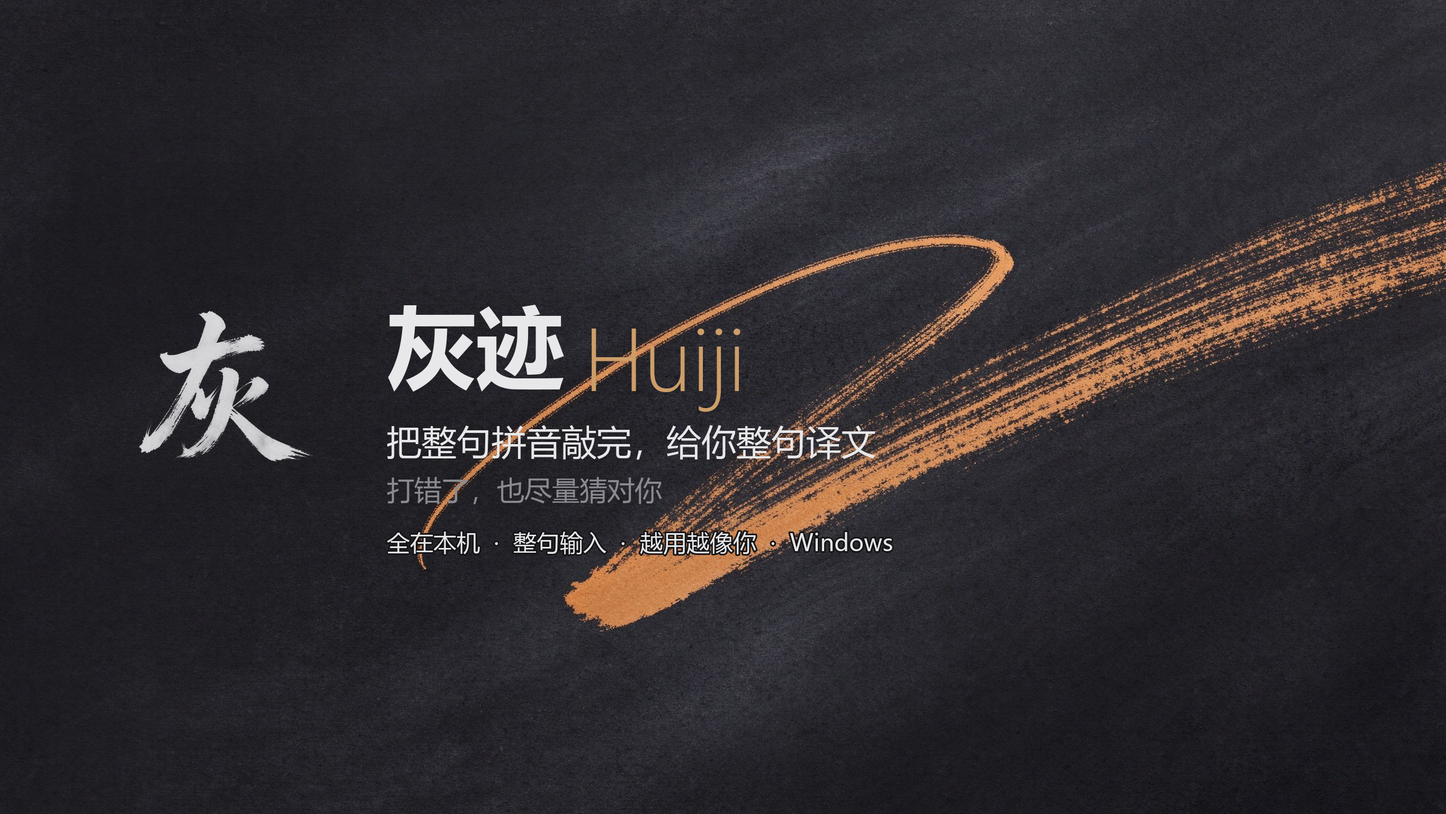
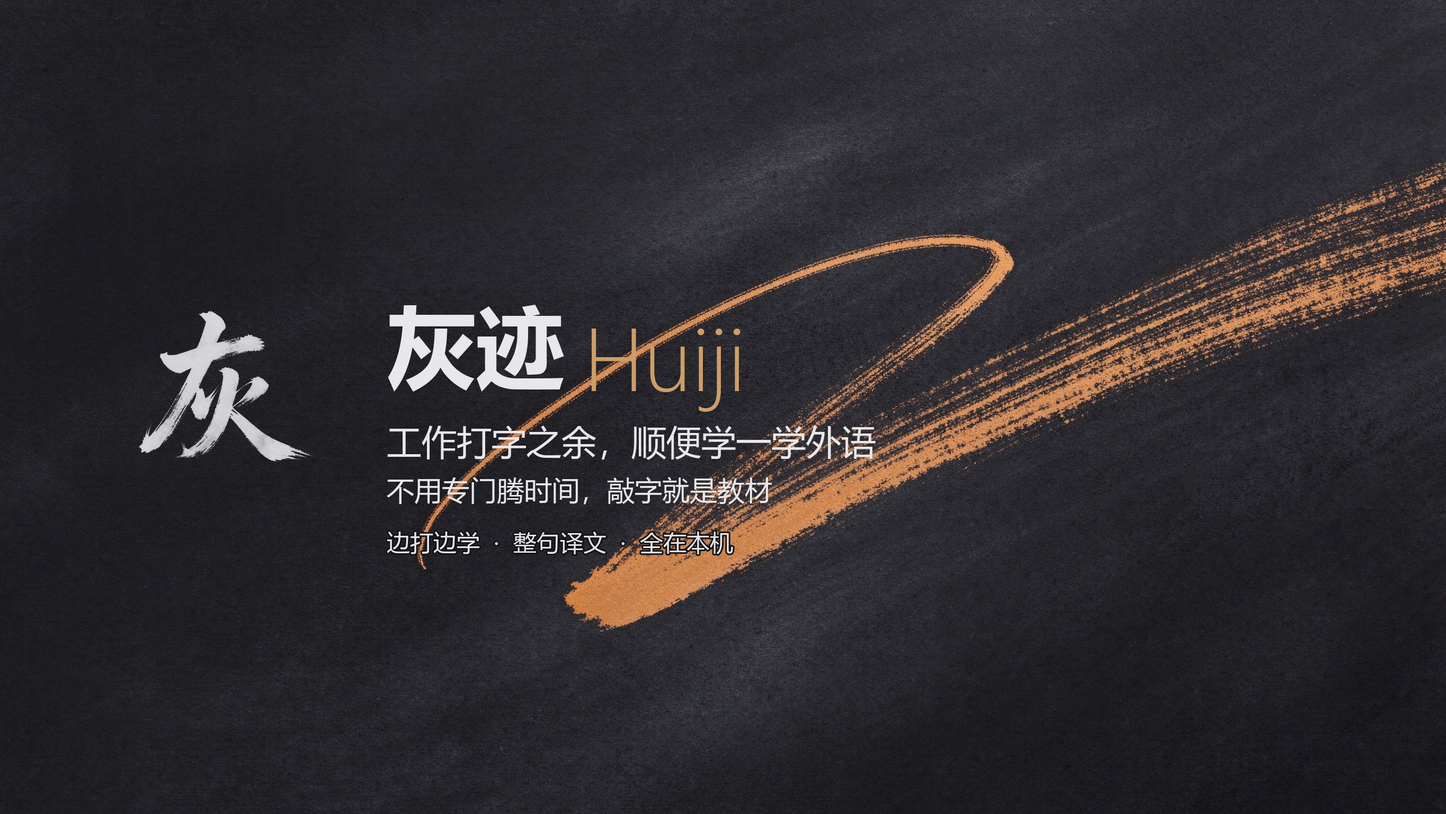
docs(readme): 主线回到工作打字顺便学外语

Changed region(s): [[0.2491, 0.5, 0.6227, 0.625], [0.3736, 0.6562, 0.6227, 0.6875], [0.2491, 0.6562, 0.3425, 0.6875]]

diff --git a/huiji/tools/make_banner.py b/huiji/tools/make_banner.py
@@ -61,11 +61,11 @@ draw.text((tx + w_cn + gap, title_y + 18), "Huiji", font=f_en, fill=AMBER)
 
 # slogan
 slogan_y = title_y + 250
-draw.text((tx, slogan_y), "把整句拼音敲完，给你整句译文", font=f_slogan, fill=LIGHT)
-draw.text((tx, slogan_y + 100), "打错了，也尽量猜对你", font=f_sub, fill=MUTED)
+draw.text((tx, slogan_y), "工作打字之余，顺便学一学外语", font=f_slogan, fill=LIGHT)
+draw.text((tx, slogan_y + 100), "不用专门腾时间，敲字就是教材", font=f_sub, fill=LIGHT)
 
 # 标签（浅色 + 深色描边，避免压在琥珀笔触上看不清）
-tags = "全在本机  ·  整句输入  ·  越用越像你  ·  Windows"
+tags = "边打边学  ·  整句译文  ·  全在本机"
 draw.text(
     (tx, slogan_y + 205),
     tags,

diff --git a/README.md b/README.md
@@ -8,79 +8,62 @@
   <a href="https://github.com/noii-y/huiji/stargazers"><img src="https://img.shields.io/github/stars/noii-y/huiji?label=Stars" alt="GitHub Stars"></a>
 </p>
 
-灰迹是一款 Windows 拼音输入法，从开源输入法 [青简](https://github.com/qingjian-team/qingjian) 长出来。
+灰迹是一款 Windows 拼音输入法，做给「想在工作里顺便学点外语、又挤不出整块时间」的人。
 
-它首先得是一款能天天用的输入法，这件事青简已经做好了。灰迹在这个底子上往前走两步：你照平常把一整句拼音连续敲完、不用停下来逐个选词，候选窗顶部就给出整句英文；手滑敲错、或者只打声母缩写，也尽量把你真正想要的词排到前面。
+你每天要写邮件、改文档、回消息，在键盘上敲下成千上万次。灰迹把外文放进这个过程里：候选词旁边跟着这个词的外文和词性，一整句敲完，还能看到整句话怎么讲。不用另开学习软件，也不用专门腾出时间，打字时眼睛顺带扫过去，日子久了，词就记住了。
+
+它从开源输入法 [青简](https://github.com/qingjian-team/qingjian) 长出来。青简「打字时顺便认识一个词」的想法和最难的地基，灰迹都接了过来，又把学习从「词」扩到「句」。
 
 ## 为什么叫灰迹
 
-输入法本该在后台。你打字的时候几乎忘了它在，但它一直在——这是「灰」，克制，不抢戏。
+输入法本该待在后台，你打字时几乎察觉不到它——这是「灰」，克制，不抢戏。
 
-你选过哪些词、敲错又改对过什么、嘴上常挂哪句话，这些都会留下痕迹，输入法据此一点点变成「你的」输入法——这是「迹」。
+哪些词从陌生看到熟、你嘴上常挂什么话、改过哪些手误，这些都会留下痕迹，外语和输入法一起，慢慢变成「你的」——这是「迹」。
 
-样子也照着这个脾气做。默认是一套深色的「石墨深邃」皮肤：深灰底、圆角、首选词左边一道暖琥珀色的竖条，在一片灰里给一点提示，不花哨。图标是一个透明底的「灰」字。默认深色，不跟随系统。
+样子也照着这个脾气。默认是一套深色的「石墨深邃」皮肤：深灰底、圆角、首选词左边一道暖琥珀竖条，在一片灰里给一点提示。图标是透明底的「灰」字，默认深色，不跟随系统。
 
-## 站在青简的肩膀上
-
-青简是一个用 Rust 写的拼音输入法，整句输入，候选由本机小模型重排，本地优先。它最难的地基，灰迹原样继承了下来：
-
-- **整句输入**：连续敲拼音，候选由本机小模型重排，不用一个字一个字凑；
-- **多种打法**：全拼、简拼（声母缩写）、双拼、模糊音都支持；
-- **拼写纠错、英文模式、emoji**；
-- **候选词旁的译词**（青简的招牌）：每个候选词旁边标一条你正在学的语言的译词，带词性，英语或日语一次一种，日语按汉字注假名；没见过几次的生词标橙色，看熟了自动变回灰色；
-- **越用越像自己**：选过的词、连着选的词序列（个人 n-gram）、接受过的敲错纠正，都在本机记着，排序据此调整；
-- **全在本机**：拼音、词库、整句模型、学习、释义都不联网，不需要账号；
-- **可选的云联想，默认关闭**：打开后向你自己填的 AI 服务商要词和整句补全。
-
-青简也有 macOS、Linux 的外壳。灰迹目前只在 Windows 上打磨，那两个平台的代码还在，但没专门调过。
-
-## 灰迹多做了什么
+## 边打字，边学外语
 
 <p align="center">
   <img src="huiji/assets/huiji-candidates.png" alt="灰迹候选窗" width="380">
 </p>
 
-**整句翻译：从「词」到「句」，全程离线**
+- **词旁边就是外文。** 选词时眼睛顺带扫一眼：这个词英文怎么拼、是动词还是名词。一天敲几千字，就多看几千眼，比正襟危坐背单词轻松，也更容易坚持。这套「词旁译词」是青简的招牌，灰迹原样保留。
+- **生词会提醒，熟了就退场。** 没见过几次的词标成橙色，提醒你多留意；看多了、记住了，自动变回普通灰色，不会一直分你的神。
+- **整句敲完，看整句怎么说。** 这是灰迹加上去的：想知道一整句话英文怎么讲，不必逐词凑，连续敲完拼音，候选窗顶部直接给整句，比如敲 `nijintianwanshangyoukongma` 给出 `Are you free tonight?`（见上图）。模型在本机、离线，约 81 MB，随安装包装好，100 句测试里译文延迟中位数 50 毫秒。流行语也单独照顾，「摸鱼」是 slack off、「内卷」是 rat race，比直译像话。
+- **英语、日语都能选**，一次学一种，日语按汉字标假名。
 
-青简把译词标在单个词旁边，只到「词」这一层。灰迹让你把整句拼音敲完，候选窗顶部直接出现整句英文。比如连续敲 `nijintianwanshangyoukongma`，不用逐词选，顶部给出 `Are you free tonight?`（见上图）。
+## 输入法本身，也得顺手
 
-翻译模型和运行时都在本机，不联网、不花钱，敲的内容不出这台电脑。模型是一个约 81 MB 的中英 Marian，已经随安装包一起装好；在 100 句测试集上，译文延迟中位数 50 毫秒。流行语还做了本地术语表，「摸鱼」译成 slack off、「内卷」译成 rat race，比直译更像人话。
+学习是顺便的，前提是打字不被打扰。地基的活灰迹没含糊：
 
-**更懂手滑和缩写**
+- 整句输入，候选由本机小模型重排，全拼、简拼、双拼、模糊音都支持；
+- 手滑和缩写：默认开「中文优先」，声母缩写的首选命中率从 66.2% 提到 77.5%；
+- 键位对齐微软拼音：`-`/`=` 翻页（小键盘 `+`/`-` 也行）、`Ctrl+.` 切中英标点、`Ctrl+Shift+F` 切简繁、`Shift+空格` 切全半角、V 模式算算式和查日期时间；
+- 游戏检测到独占全屏就整体让位，不吃键、不弹窗、不卡死，能正常 Alt+Tab；
+- 另有拼写纠错、英文模式、emoji；云联想默认关闭。
 
-默认开启「中文优先」后，声母缩写（比如敲 `kj` 想要「看见」）的首选命中率从 66.2% 提到 77.5%。只错一个字母的干净串，青简原本就能纠正大部分，灰迹没有在上面硬堆手写规则——规则越加越容易误伤，再往上的空间主要在个性化学习和上下文模型。
+## 站在青简的肩膀上
 
-**对齐你在微软拼音上的老习惯**
+青简是一个用 Rust 写的拼音输入法，本地优先，整句候选由本机小模型重排。灰迹基于它（GPL-3.0-or-later）开发，保留了完整提交历史，随时可以溯源，也守住了「输入不被翻译拖慢、一切全在本机」的架构。它也有 macOS、Linux 的外壳，灰迹目前只在 Windows 上打磨，那两份代码还在，但没专门调过。
 
-- `-` / `=` 翻页（小键盘 `+`/`-` 在任何翻页档下都能用）；
-- `Ctrl + .` 切换中/英文标点；
-- `Ctrl + Shift + F` 切换简/繁体；
-- `Shift + 空格` 切换全/半角字符；
-- V 模式：`v` 后能算算式、查日期（`v2026-10-1`）、查时间（`v12:30`）。
-
-**游戏里不添乱**
-
-检测到前台是独占全屏的游戏，灰迹就整体让位：不吃键、不连后台、不弹候选窗，按键全部直通，游戏不会因为输入法卡死，也能正常 Alt+Tab。目前全屏游戏里只能直接打英文，中文输入还在想办法。
+青简的作者和社区做了最难的地基，在此致敬。按 GPL 的要求，灰迹同样以 GPL-3.0-or-later 开源。随包数据各有来源与许可，见 [docs/design/landscape.md](docs/design/landscape.md)。
 
 ## 安装
 
-到 [Releases](https://github.com/noii-y/huiji/releases) 下载最新的 `huiji-<版本>-windows-x86_64-setup.exe`，双击安装，按提示注销或重启一次。安装包约 125 MB，翻译模型和运行时都打在里面，装完离线就能用，不用再单独下载。安装需要管理员授权，在 UAC 弹窗点「是」即可。
+到 [Releases](https://github.com/noii-y/huiji/releases) 下载最新的 `huiji-<版本>-windows-x86_64-setup.exe`，双击安装，按提示注销或重启一次。安装包约 125 MB，翻译模型和运行时都打在里面，装完离线就能用，不用再单独下载。安装需要管理员授权，在 UAC 弹窗点「是」。
 
-想自己从源码编译，见 [apps/windows/README.md](apps/windows/README.md)。
+想从源码编译，见 [apps/windows/README.md](apps/windows/README.md)。
 
 ## 数据与隐私
 
-拼音转换、词库查询、翻译、输入习惯学习都在本机完成，不需要账号。云联想和云端翻译默认关闭，只有你自己填入 AI 服务商的 key 之后才会发请求，而且请求直接发给服务商、不经过灰迹。
+拼音转换、词库、翻译、学习都在本机完成，不需要账号。云联想和云端翻译默认关闭，只有你自己填入 AI 服务商的 key 之后才会发请求，而且请求直接发给服务商、不经过灰迹。
 
 ## 当前状态与路线图
 
-灰迹目前聚焦 Windows，端侧整句翻译已经在真机闭环，按键习惯对齐了微软拼音，游戏全屏不再卡死。云端整句翻译的链路也已经就绪，填入 OpenAI 兼容的 key（DeepSeek 等）就能给长难句兜底。
+灰迹目前聚焦 Windows：词旁译词、生词提醒、端侧整句译文都已在真机闭环，键位对齐了微软拼音，游戏全屏不再卡死。云端整句翻译的链路也已就绪，填入 OpenAI 兼容的 key（DeepSeek 等）就能给长难句兜底。
 
 还在排队的：游戏全屏下的中文输入、端侧整句语言模型、云端结果的本地记忆、U 模式（笔划/部件）。一步步的进展写在 [开发日志](huiji/开发日志.md) 里。
-
-## 和青简的关系
-
-灰迹基于青简（GPL-3.0-or-later）开发，保留了它本地优先、输入不被翻译拖慢的架构，也把完整提交历史带了过来，随时可以溯源。青简的作者和社区做了最难的地基工作，灰迹在此致敬。按 GPL 的要求，灰迹同样以 GPL-3.0-or-later 开源。随包数据各有来源与许可，见 [docs/design/landscape.md](docs/design/landscape.md)。
 
 ## 许可
 
